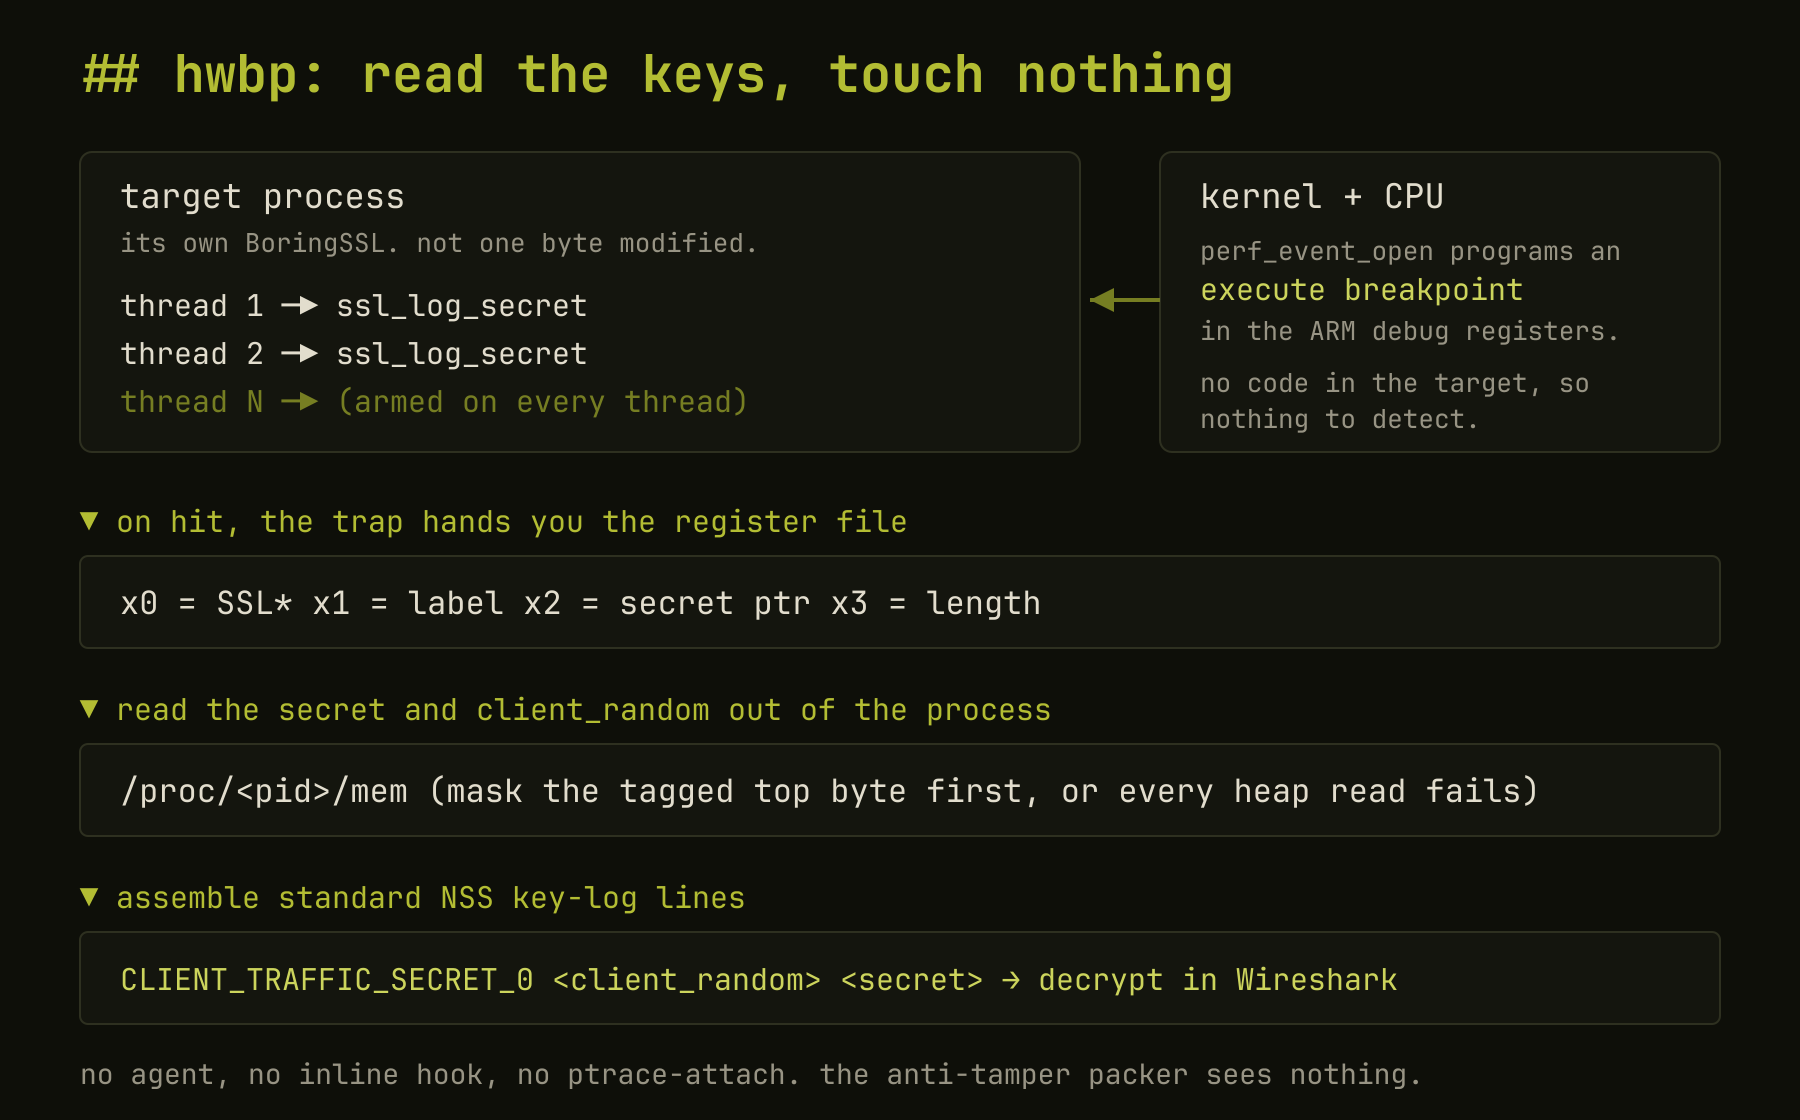
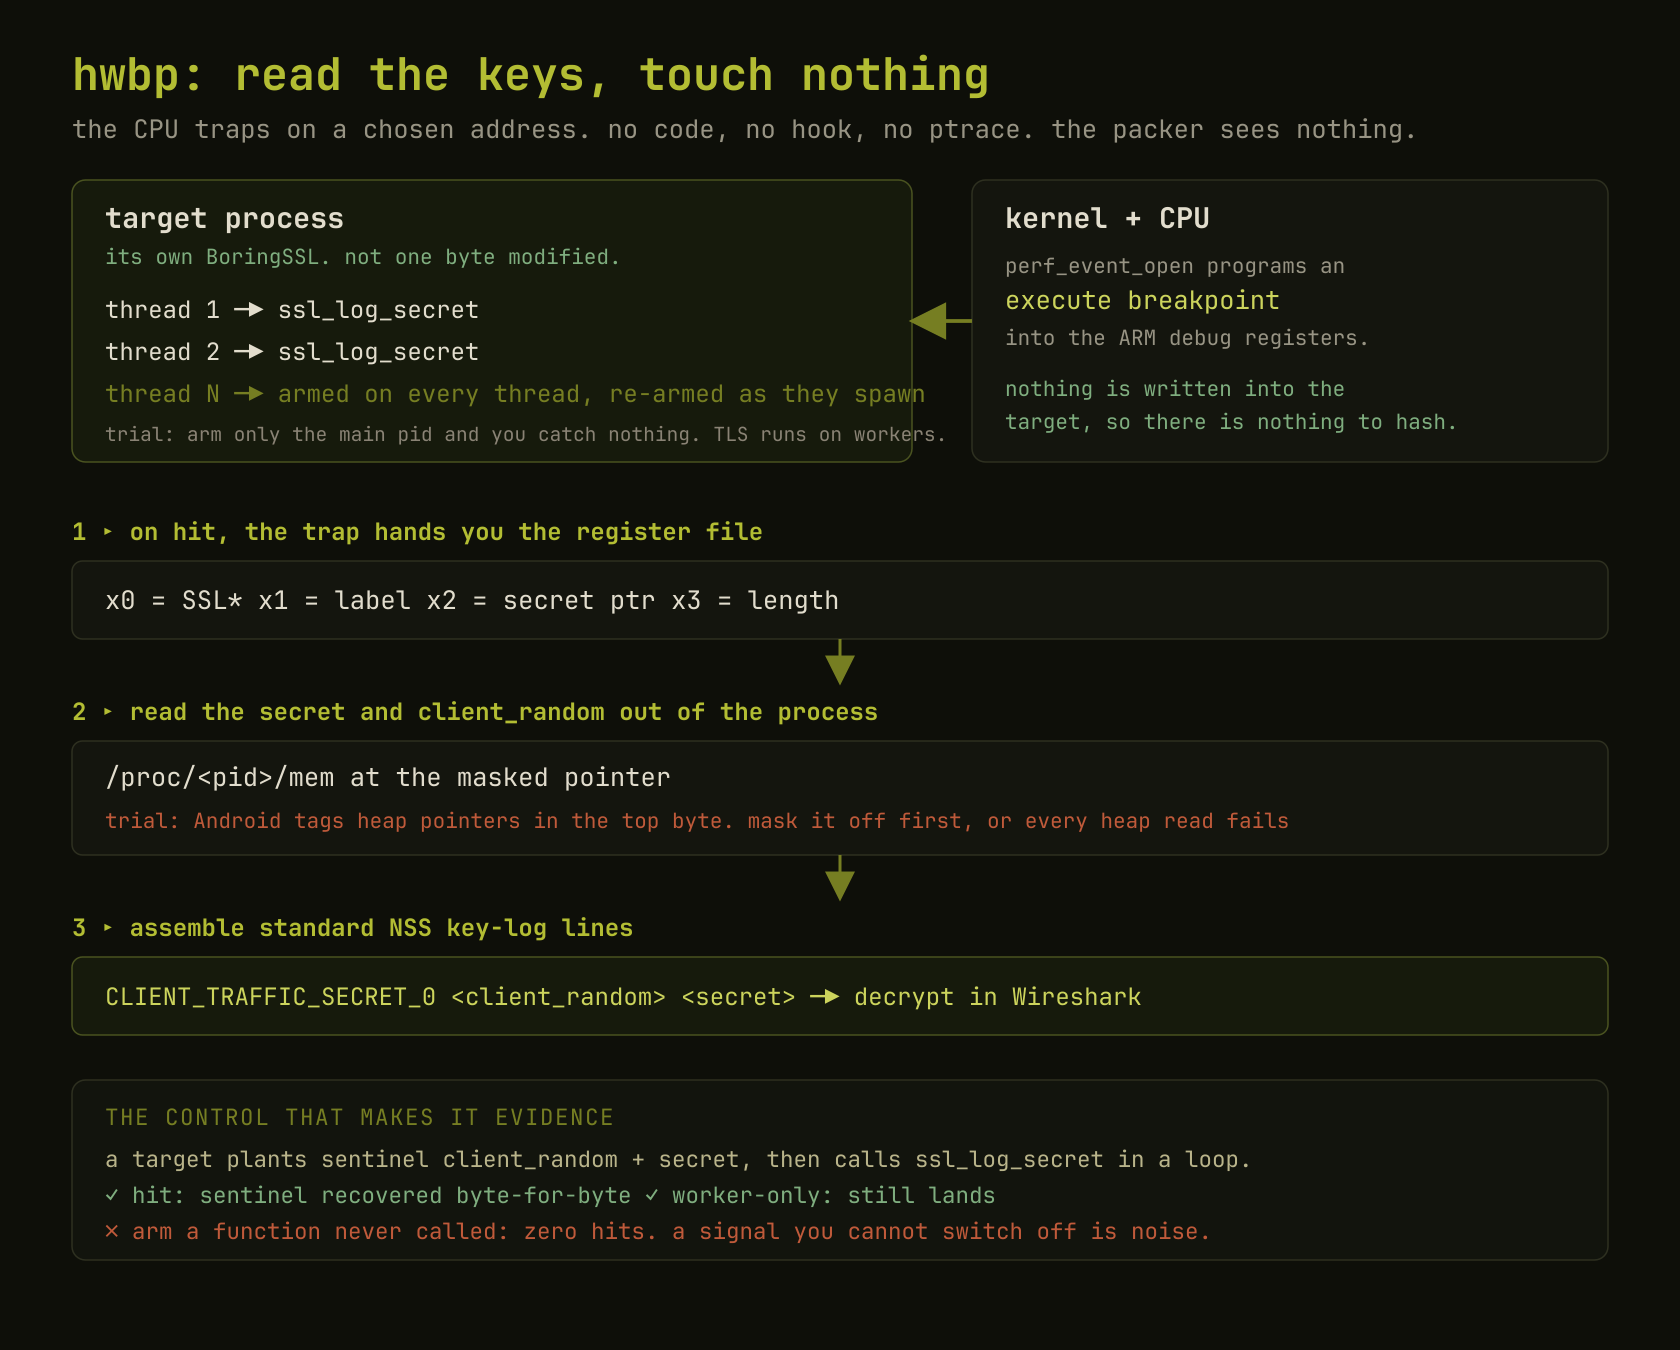
declaw post: redesign the hwbp and mempatch diagrams, deepen hwbp, more air
Rebuild the hwbp and mempatch flow diagrams in the same visual system as the
pinning-map: numbered flow, inline trial callouts (per-task arming, the tagged
pointer, the two wrong-target traps), and the negative control drawn in. Expand
the hwbp section with how the debug-register channel was chosen and how
PERF_SAMPLE_REGS_USER reads another process's registers with no ptrace. Widen
the column to 54rem and open up the line spacing.

diff --git a/assets/css/main.scss b/assets/css/main.scss
@@ -590,8 +590,8 @@ a.sh-label {
 
   p {
     color: $text-sec;
-    line-height: 1.875;
-    margin-bottom: 1.25rem;
+    line-height: 1.9;
+    margin-bottom: 1.5rem;
   }
 
   strong { color: $text; font-weight: 700; }
@@ -807,7 +807,7 @@ a.sh-label {
 // header, prose, and code share one balanced column instead of the body text
 // hugging the left under a full-width header.
 .post {
-  max-width: 52rem;
+  max-width: 54rem;
   margin-inline: auto;
 }
 

diff --git a/_posts/2026-07-15-declaw-android-tls-unpinning.md b/_posts/2026-07-15-declaw-android-tls-unpinning.md
@@ -36,6 +36,10 @@ One boundary belongs up front, because it shapes everything below the line. Both
 
 A CPU hardware breakpoint is not code. It is a value the kernel writes into the ARM debug registers, and the core traps when it executes a chosen address, with nothing loaded into the target and not a single instruction changed. There is no agent to detect and no hook to trip an integrity check, because from the app's point of view its own bytes are exactly as the loader mapped them.
 
+I did not reach for that first. After Frida died and the re-signed build got killed, the obvious next step was one of the `ptrace`-based key readers, and that is a dead end against a hardened app for a reason I get to below. What I actually needed was a way to catch the exact instant a key is derived, from outside the process, that leaves nothing behind inside it. `perf_event_open` turns out to be exactly that primitive, and the part that makes it work is not obvious: it can arm a hardware execute breakpoint (`HW_BREAKPOINT_X`) on an address in a *different* process, and with `PERF_SAMPLE_REGS_USER` set, the sample it returns on every hit carries that process's user register file. No `ptrace`, no attach, no byte written into the target. The kernel does the trapping in the CPU and just hands you the registers. The channel is the whole point: I am reading another process's key material with a facility that has no debugger relationship to it at all.
+
+The function to aim it at is `ssl_log_secret`, and that choice is what makes the rest fall out for free. It is BoringSSL's own key-log emitter, the function the library calls to write an `SSLKEYLOGFILE` line, so at the instant it executes its arguments already are the label, the secret pointer, and the length. I never have to reconstruct a key schedule or find a struct offset. I just have to be standing on that address when the library hands itself the key.
+
 declaw's `hwbp` mode arms a `perf_event_open` execute-breakpoint on BoringSSL's `ssl_log_secret` in every thread of the target. When it fires, the sample hands you the register file, and `ssl_log_secret` is the function where BoringSSL emits its own key log, so the arguments are the key material: the label, the secret, the length. Read those out of the process and you have the exact bytes the library would have written to `SSLKEYLOGFILE`, assembled into standard NSS key-log lines that decrypt the capture in Wireshark.
 
 ![the hwbp flow: a kernel-programmed breakpoint fires on ssl_log_secret, the trap yields x0 to x3, and the secret is read back over /proc/pid/mem]({{ '/assets/img/posts/declaw-hwbp.png' | relative_url }})
